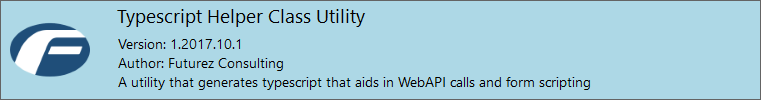
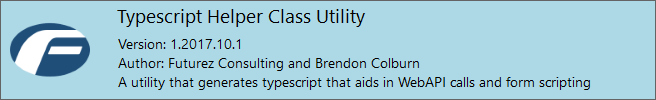
updates to branding / company info

Changed region(s): [[0.0, 0.21, 0.6402, 0.78], [0.1524, 0.75, 0.9146, 0.9], [0.1524, 0.09, 0.5793, 0.27]]

diff --git a/Properties/AssemblyInfo.cs b/Properties/AssemblyInfo.cs
@@ -6,11 +6,11 @@ using System.Runtime.InteropServices;
 // set of attributes. Change these attribute values to modify the information
 // associated with an assembly.
 [assembly: AssemblyTitle("Xrm.Tools.CrmSvcUtilTS")]
-[assembly: AssemblyDescription("")]
+[assembly: AssemblyDescription("A utility that generates typescript that aids in WebAPI calls and form scripting")]
 [assembly: AssemblyConfiguration("")]
-[assembly: AssemblyCompany("Futurez Consulting")]
+[assembly: AssemblyCompany("Futurez Consulting and Brendon Colburn")]
 [assembly: AssemblyProduct("Xrm.Tools.CrmSvcUtilTS")]
-[assembly: AssemblyCopyright("Copyright Futurez Consulting © 2017")]
+[assembly: AssemblyCopyright("")]
 [assembly: AssemblyTrademark("")]
 [assembly: AssemblyCulture("")]
 
